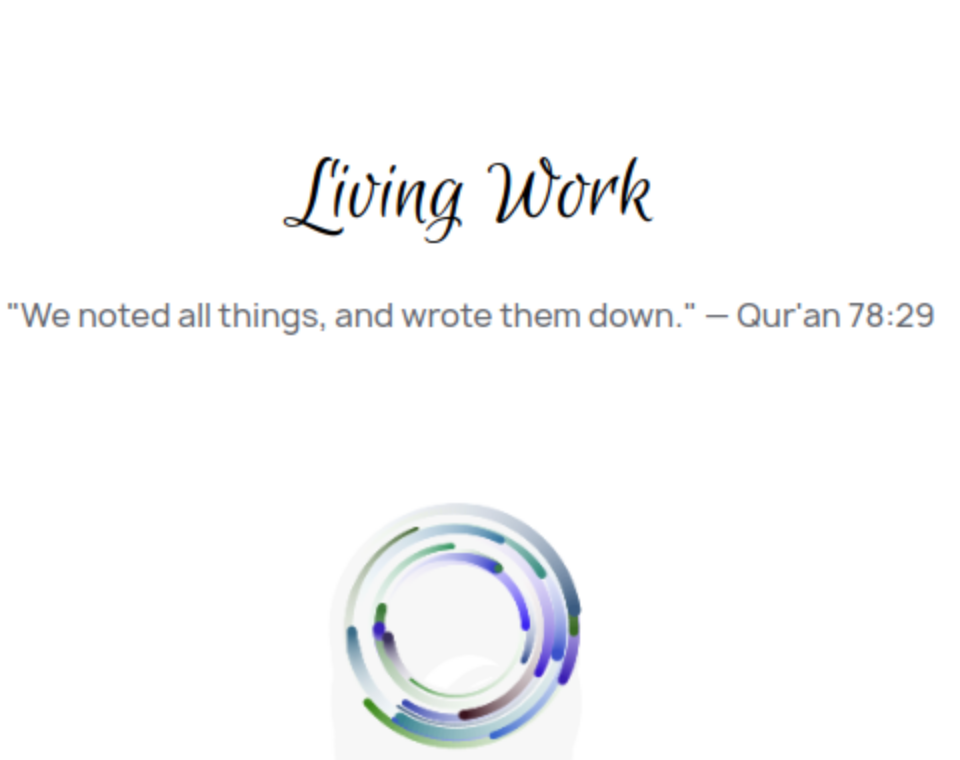
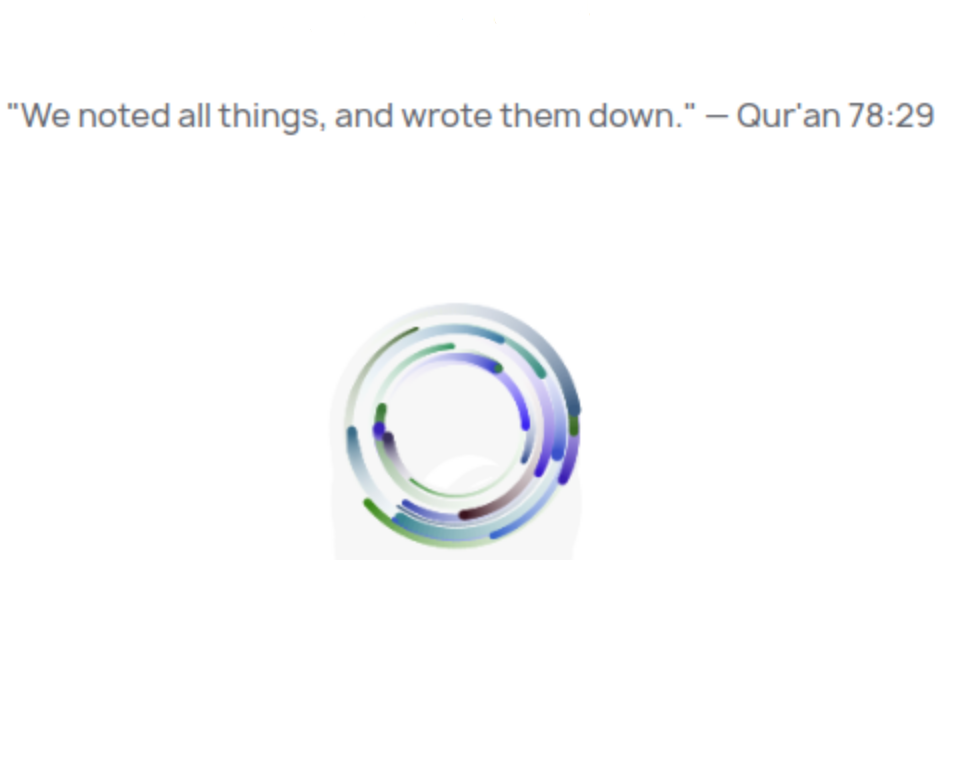
Unifying truth endlessly

diff --git a/material/home.html b/material/home.html
@@ -104,10 +104,7 @@
           
         <div class="main-article">
 			<div class="callout callout-home">
-				<img src="/assets/images/golden_enso.png" class="main-logo" />
-        <p class="home-button">
-          Who Am I?
-        </p>
+				<img src="/assets/images/enso.png" class="main-logo" />
 			</div>
 		</div>
 
@@ -115,7 +112,7 @@
 
         <div class="extra-container">
             <div class="extra-content" id="who">
-                <h1>Books</h1>
+                <h1>Sincere Writing</h1>
                 <div class="books">
                   <div class="book">
                     <h3>The Blue Book</h3>
@@ -137,7 +134,7 @@
                     <h3>Dyeing</h3>
                     <img src="/assets/images/dyeing.png" class="book-img" />
                     <p>
-                      It's wonderful to live poetically. However, to know your truth inside out, you must put even this down and let go utterly.
+                      Llive poetically by all means. However, to know your truth inside out, you must put even this down. Just let go.
                     </p>
                     <a class="booked" target="_blank" href="https://dyeing.thebluebook.co.za">Death</a>
                   </div>
@@ -149,9 +146,17 @@
                     </p>
                     <a class="booked" target="_blank" href="https://unifying.thebluebook.co.za">Truth</a>
                   </div>
+                  <div class="book">
+                    <h3>Finding</h3>
+                    <img src="/assets/images/de_sign.png" class="book-img" />
+                    <p>
+                      The fifth, final, and infinite part of The Blue Book trilogy, found in <a href="https://libraryofbabel.info/" target="_blank" class="bold-link">The Library of Babel</a>. Each chapter is controlled by a Guardian NFT, cared for by those I love.
+                    </p>
+                    <a class="booked" target="_blank" href="https://finding.thebluebook.co.za">Endlessly</a>
+                  </div>
                   <div class="clear"></div>
 
-                  <h1>Work</h1>
+                  <h1>Playful Work</h1>
                   <div class="book">
                     <h3>Kernel</h3>
                     <img src="/assets/images/giving.png" class="book-img" />
@@ -161,10 +166,18 @@
                     <a class="booked" target="_blank" href="https://kernel.community">Learn</a>
                   </div>
                   <div class="book">
+                    <h3>Pr1s0nArt</h3>
+                    <img src="/assets/images/crow.jpg" class="book-img" />
+                    <p>
+                      Collectively restoring justice and the dignity of returning citizens.
+                    </p>
+                    <a class="booked" target="_blank" href="https://pr1s0n.art">Forgive</a>
+                  </div>
+                  <div class="book">
                     <h3>Dap.ps</h3>
                     <img src="/assets/images/dapps.jpg" class="book-img" />
                     <p>
-                      A transparent economic algorithm for ranking content. <a href="https://dap.ps" target="_blank" class="bold-link">In production on Ethereum</a>.
+                      A transparent economic ranking algorithm. <a href="https://dap.ps" target="_blank" class="bold-link">In production on Ethereum</a>.
                     </p>
                     <a class="booked" target="_blank" href="https://our.status.im/discover-a-brave-new-curve/">Fairly</a>
                   </div>

diff --git a/docs/extra.css b/docs/extra.css
@@ -138,8 +138,9 @@
 }
 
 .main-logo {
-  margin: -200px auto 0 auto;
+  margin: -220px auto 0 auto;
   display: block;
+  width: 100%;
 }
 
 .callout-home {
@@ -210,9 +211,9 @@
 }
 
 .book {
-  width: 46%;
+  width: 31%;
   float: left;
-  margin: 20px 30px 20px 0;
+  margin: 15px 15px 15px 0;
   padding: 4px;
   border: 1px solid #cecece;
   border-radius: 4px;
